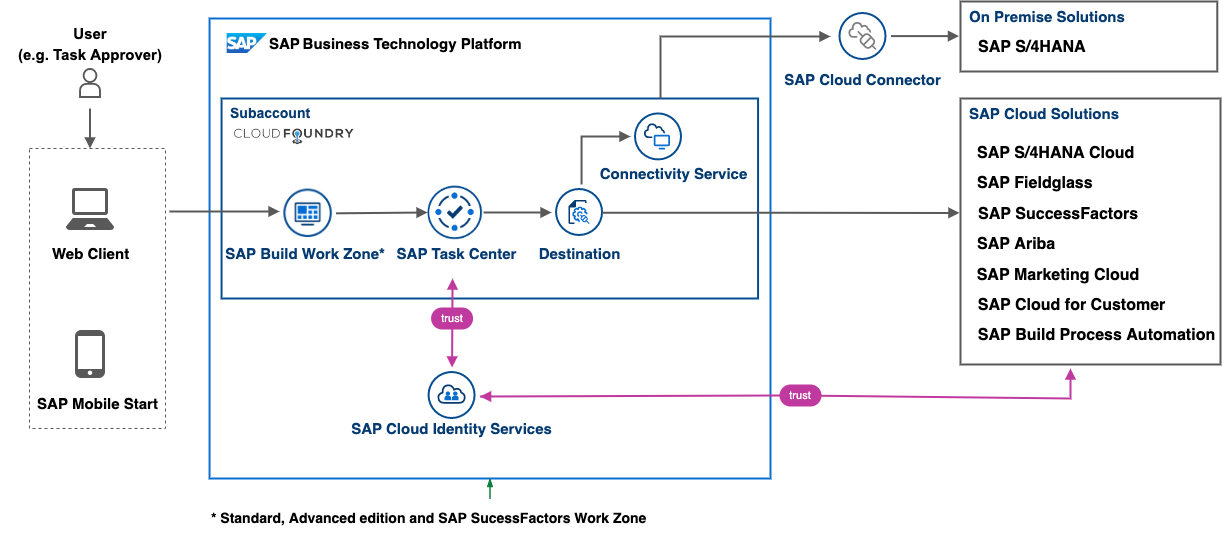
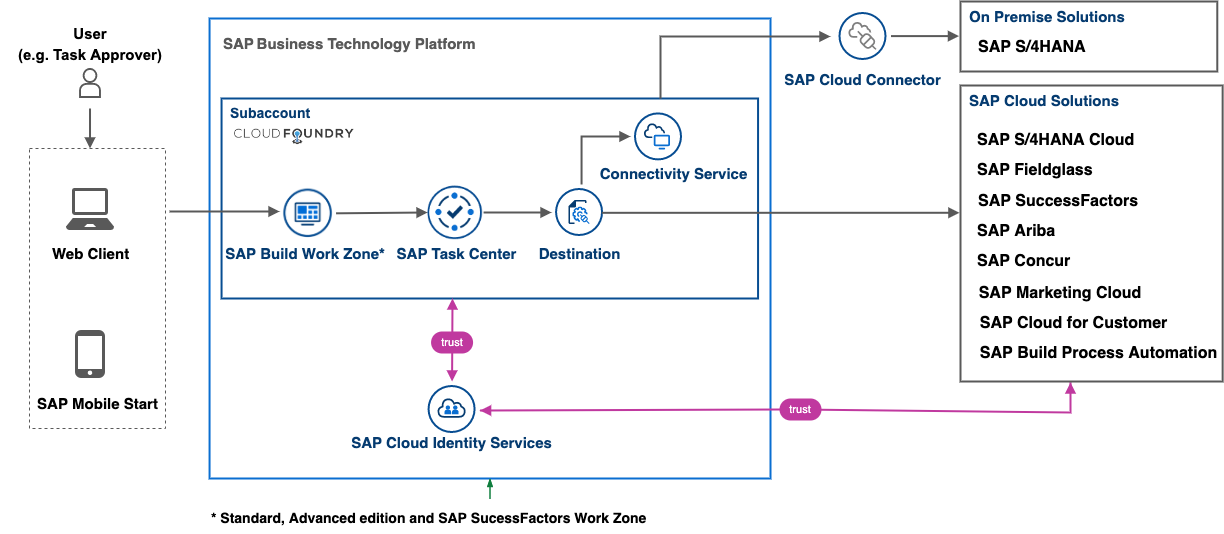
adding TP SAP Concur

diff --git a/btp-inital-setup/README.md b/btp-inital-setup/README.md
@@ -4,7 +4,7 @@ This repository contains conten for the cards which are used in the SAP Discover
 
 - **Discover**
 
-   - [Learn how to use missions and project boards in SAP Discovery Center](learn-how-missions-and-project-boards-in-dc.md)
+   - ``[Learn how to use missions and project boards in SAP Discovery Center]``(learn-how-missions-and-project-boards-in-dc.md)
    - [Get an overview about the SAP Task Center](get-an-overview-about-sap-task-center.md)
    - [Learn about the SAP integration strategy](sap-integration-strategy.md)
    - [SAP Task Center official documentation](sap-task-center-documentation.md)
